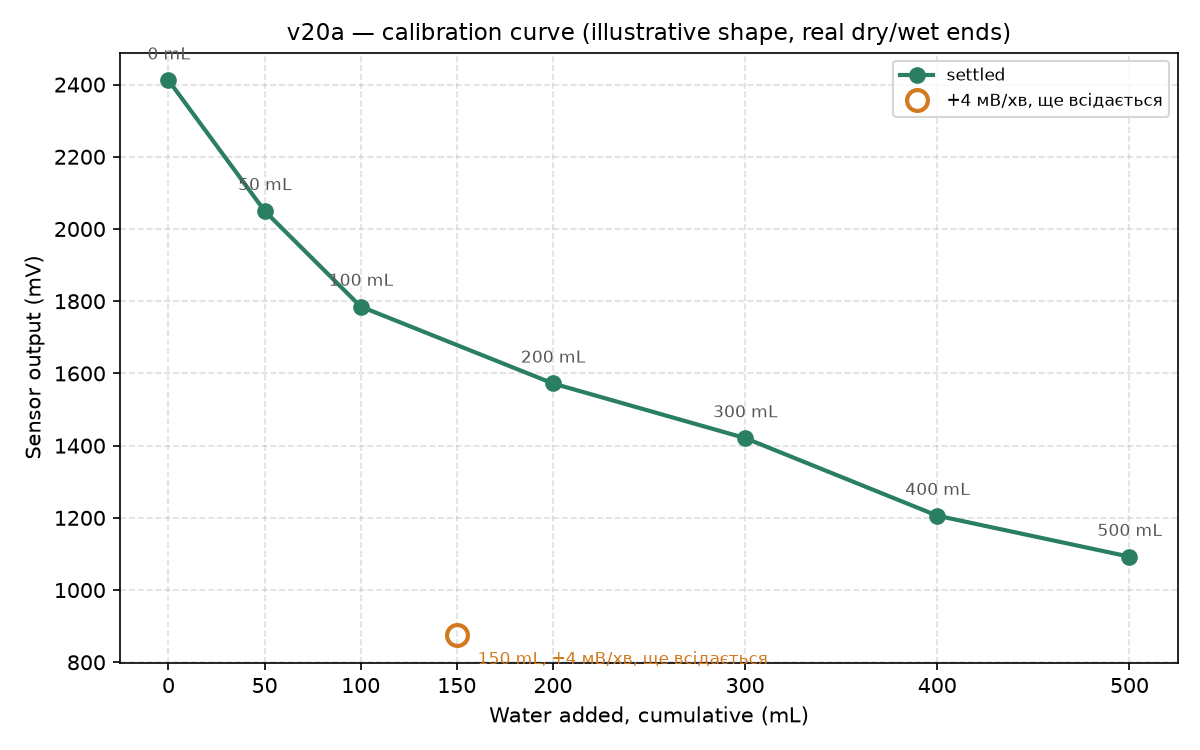
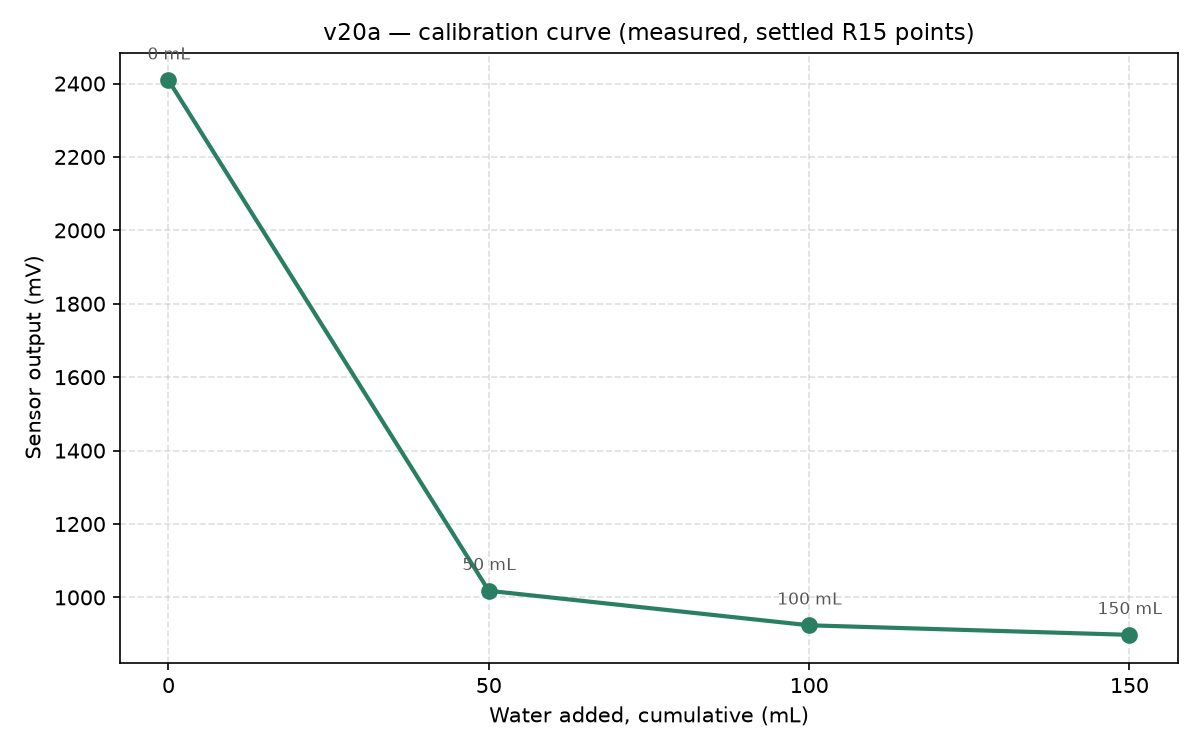
fix(soil-calibration): calibration graph used a mid-settling estimate
Point 3 (150 mL) had finished settling since the graph was generated —
regenerate with the real R15 values from points.csv (0/50/100/150 mL ->
2409/1018/924/898 mV) instead of the 876 mV in-progress reading. Add
--points to plot_calibration_curve.py to plot exact settled pairs directly,
no CSV parsing or illustrative decay curve needed.

diff --git a/firmware/soil-calibration/tools/plot_calibration_curve.py b/firmware/soil-calibration/tools/plot_calibration_curve.py
@@ -31,6 +31,11 @@ except ImportError:
 def parse_args() -> argparse.Namespace:
     parser = argparse.ArgumentParser(description=__doc__, formatter_class=argparse.RawDescriptionHelpFormatter)
     parser.add_argument("--csv", type=Path, help="CSV від soil_log.py; без нього — ілюстративні дані")
+    parser.add_argument(
+        "--points",
+        help="реальні усталені пари 'мл:мВ,мл:мВ,...' (наприклад '0:2409,50:1018,100:924,150:898') — "
+             "малює точно ці точки, без CSV і без ілюстративної кривої",
+    )
     parser.add_argument("--sensor", default="v20a", help="мітка сенсора (v12a/v12b/v20a/v20b), типово v20a")
     parser.add_argument("--tail", type=float, default=60.0, help="хвіст кроку в секундах (як у soil_summary.py)")
     parser.add_argument("--dry-mv", type=float, default=2400.0, help="ілюстративний режим: сухий кінець (water=0)")
@@ -90,7 +95,13 @@ def measured_data(csv_path: Path, sensor: str, tail: float) -> tuple[list[float]
 def main() -> None:
     args = parse_args()
 
-    if args.csv:
+    if args.points:
+        pairs = sorted(
+            (float(ml), float(mv)) for ml, mv in (p.split(":") for p in args.points.split(","))
+        )
+        waters, mv = [p[0] for p in pairs], [p[1] for p in pairs]
+        title = f"{args.sensor} — calibration curve (measured, settled R15 points)"
+    elif args.csv:
         waters, mv = measured_data(args.csv, args.sensor, args.tail)
         title = f"{args.sensor} — calibration curve (measured, {args.csv.name})"
     else:

diff --git a/firmware/soil-calibration/README.md b/firmware/soil-calibration/README.md
@@ -277,9 +277,9 @@ make soil-summary
 
 ![Калібрувальна крива v2.0: мл води -> мВ](data/calibration_curve.png)
 
-(відкрита (незамкнена) точка — замір, який ще всідався в момент знімку, не
-частина усталеної кривої; будується `tools/plot_calibration_curve.py`,
-`--csv` для реального прогону замість ілюстративного)
+(реальні усталені точки `R15`, сенсор `v20a`: 0/50/100/150 мл →
+2409/1018/924/898 мВ; будується `tools/plot_calibration_curve.py --points`,
+джерело чисел — `data/points.csv`)
 
 ```
 крайні точки сенсорів (повітря / вода, не ґрунт):
